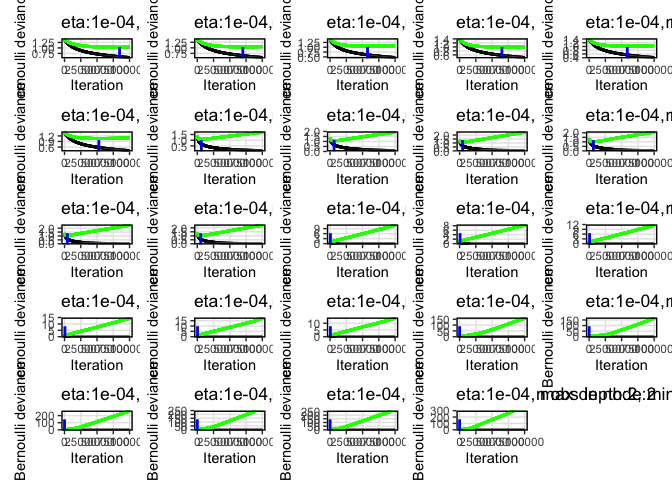
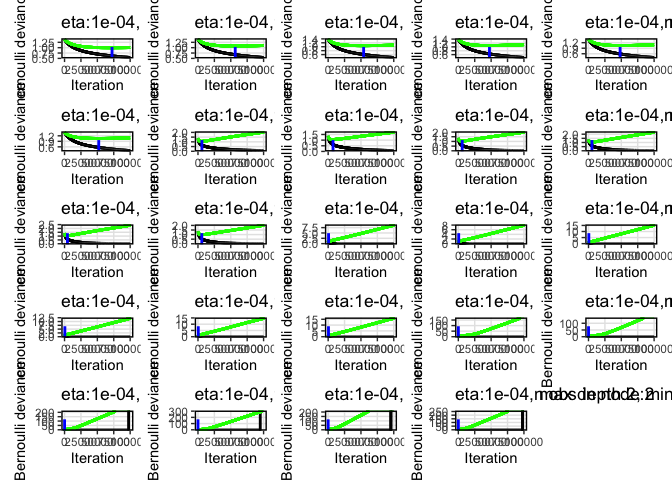
include PLOS effort, 25 reps

diff --git a/fishbase.md b/fishbase.md
@@ -320,12 +320,12 @@ Han lab
 
     ## Warning: package 'tidyverse' was built under R version 4.0.2
 
-    ## ── Attaching packages ─────────────────────────────────────────────────────────────── tidyverse 1.3.0 ──
+    ## ── Attaching packages ───────────────────────────────────────── tidyverse 1.3.0 ──
 
     ## ✓ tibble  3.0.1     ✓ purrr   0.3.4
     ## ✓ readr   1.3.1     ✓ forcats 0.5.0
 
-    ## ── Conflicts ────────────────────────────────────────────────────────────────── tidyverse_conflicts() ──
+    ## ── Conflicts ──────────────────────────────────────────── tidyverse_conflicts() ──
     ## x purrr::accumulate()      masks foreach::accumulate()
     ## x dplyr::arrange()         masks plyr::arrange()
     ## x dplyr::between()         masks data.table::between()
@@ -627,7 +627,7 @@ save(vert_haddock_plos, file = "vert_haddock_plos.Rdata")
 print(Sys.time())
 ```
 
-    ## [1] "2020-08-03 21:51:44 EDT"
+    ## [1] "2020-08-03 23:50:35 EDT"
 
 ``` r
 load("gridSearch.Rdata")
@@ -732,7 +732,7 @@ save(hyper_grid, file = paste0("hyper_grid", ".", output_name, ".Rdata"))
 print(Sys.time())
 ```
 
-    ## [1] "2020-08-03 22:09:59 EDT"
+    ## [1] "2020-08-04 00:07:52 EDT"
 
 \#\#make deviance
 plots
@@ -833,12 +833,12 @@ source("bootstrapGBM.R")
 print(Sys.time())
 ```
 
-    ## [1] "2020-08-03 22:13:46 EDT"
+    ## [1] "2020-08-04 00:11:39 EDT"
 
 ``` r
 # nruns = 1
 
-nruns = 10
+nruns = 25
 
 OUT_obs <- bootstrapGBM(DF = DF, label = label, vars = vars, k_split = k_split, distribution = "bernoulli", eta = hyper_grid$eta, max_depth = hyper_grid$max_depth, nrounds = nrounds, nruns = nruns, bootstrap = "observed", method = "cv", cv.folds = 5,
                         n.minobsinnode = hyper_grid$n.minobsinnode,file_label=output_name)
@@ -858,7 +858,7 @@ save(OUT_rand, file = paste0("OUT_rand_", output_name, ".Rdata"))
 print(Sys.time())
 ```
 
-    ## [1] "2020-08-03 22:31:54 EDT"
+    ## [1] "2020-08-04 00:54:48 EDT"
 
 \#\#look at performance
 
@@ -874,7 +874,7 @@ print("observed data, eval train")
 mean(I$auc_train)
 ```
 
-    ## [1] 0.9614685
+    ## [1] 0.9555574
 
 ``` r
 print("observed data, eval test")
@@ -886,7 +886,7 @@ print("observed data, eval test")
 mean(I$auc_test)
 ```
 
-    ## [1] 0.827353
+    ## [1] 0.8336106
 
 ``` r
 R <- OUT_rand[[1]]
@@ -894,7 +894,7 @@ R <- OUT_rand[[1]]
 mean(R$auc_train)
 ```
 
-    ## [1] 0.7796844
+    ## [1] 0.7753279
 
 ``` r
 print("null data, eval test")
@@ -906,7 +906,7 @@ print("null data, eval test")
 mean(R$auc_test)
 ```
 
-    ## [1] 0.5703776
+    ## [1] 0.5759225
 
 \#\#plot importance
 
